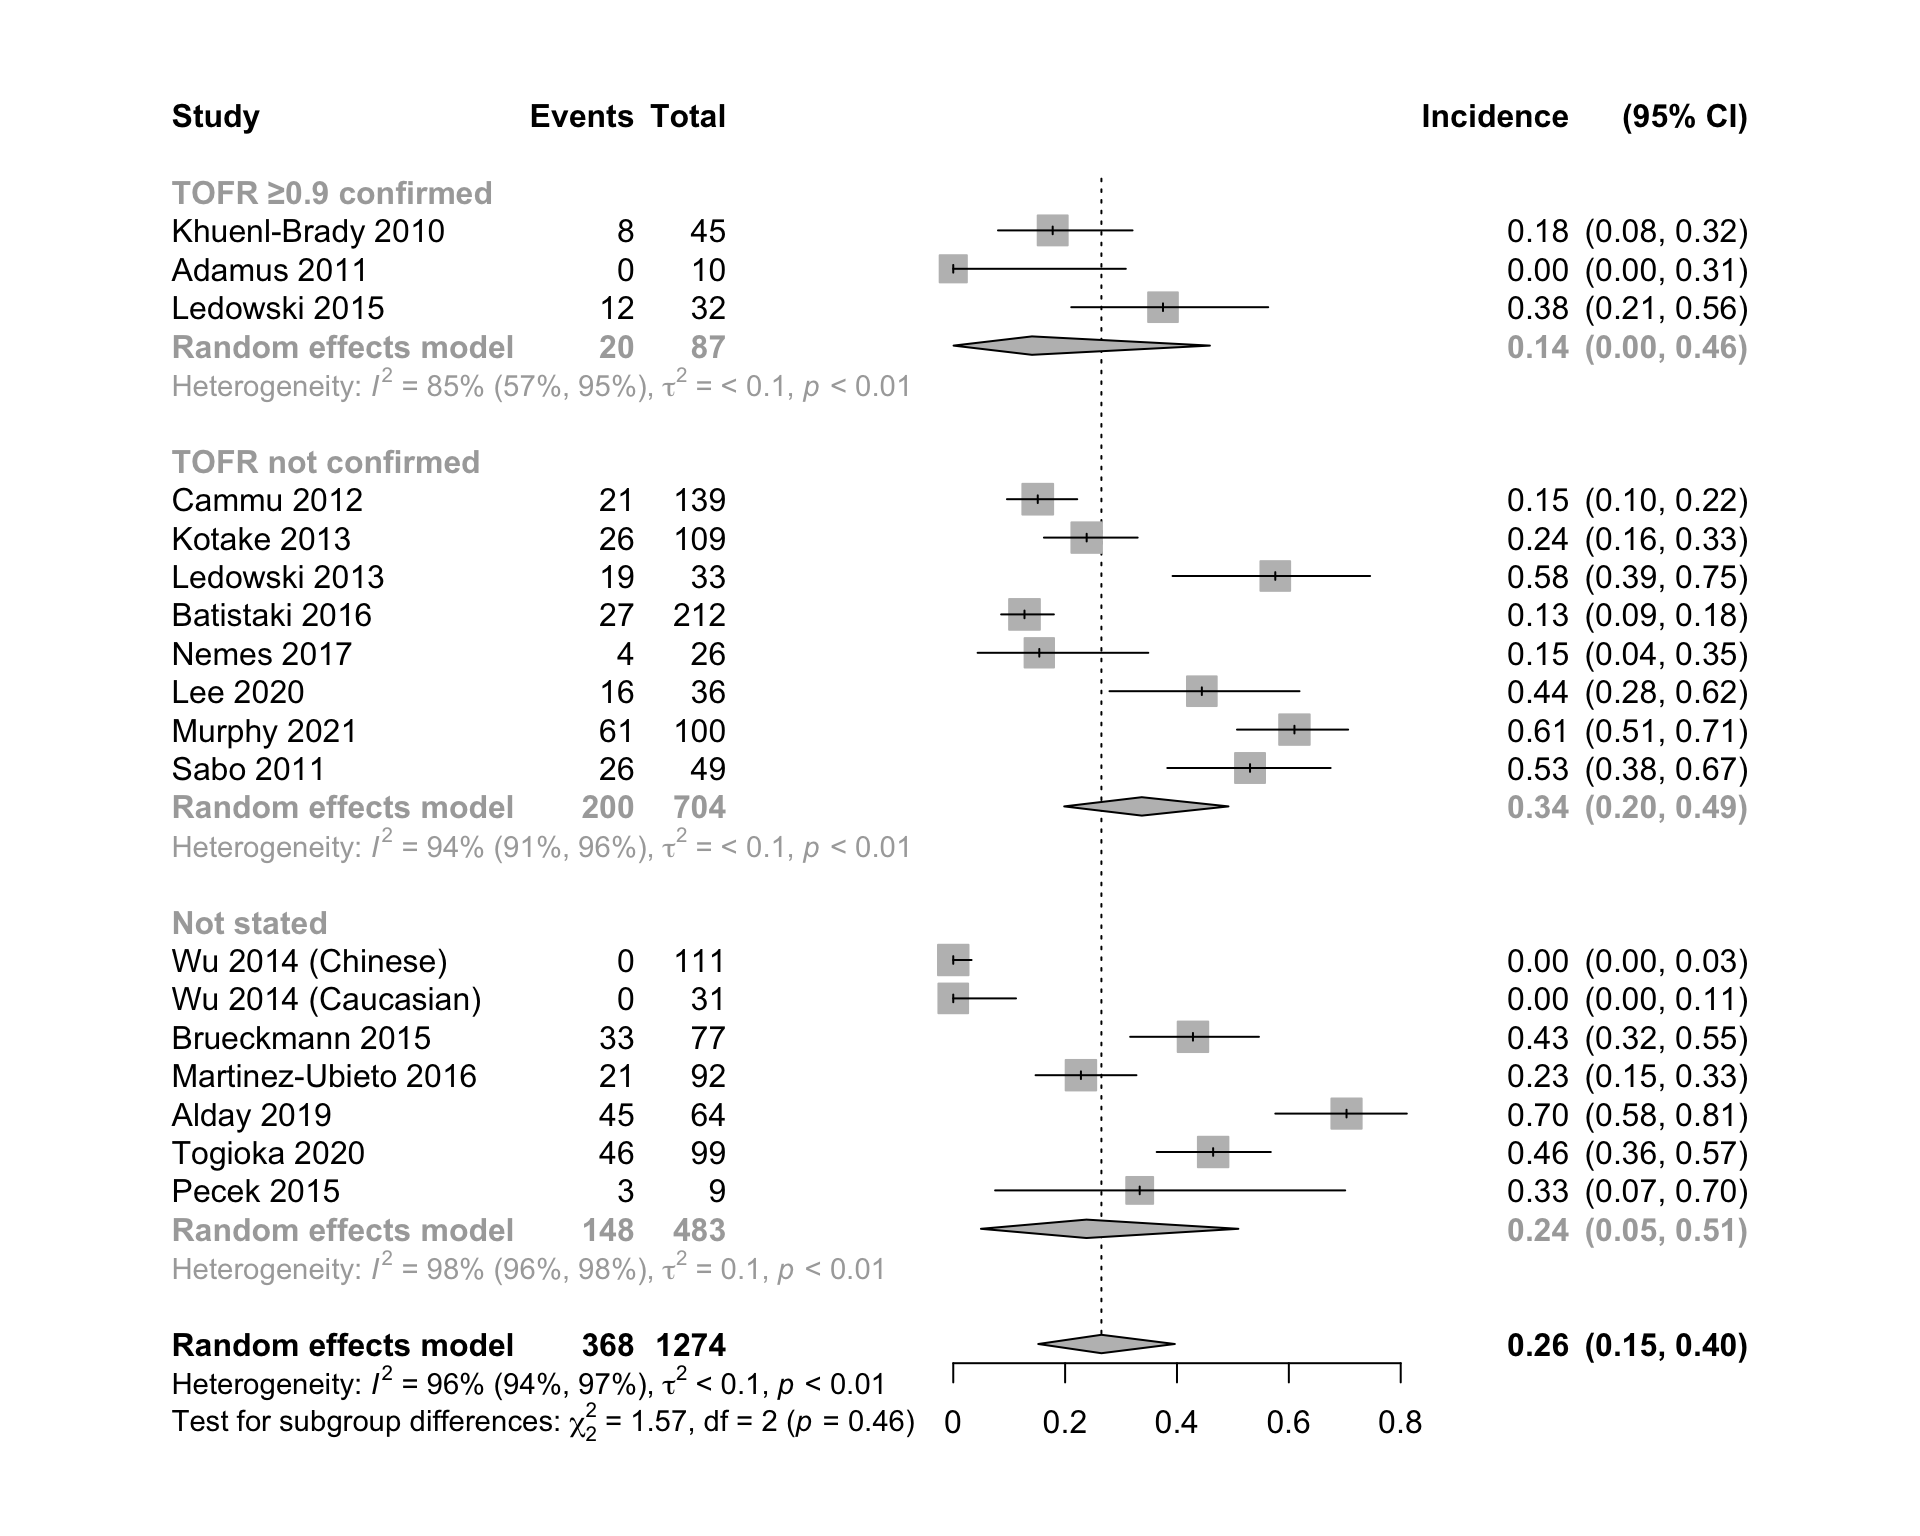
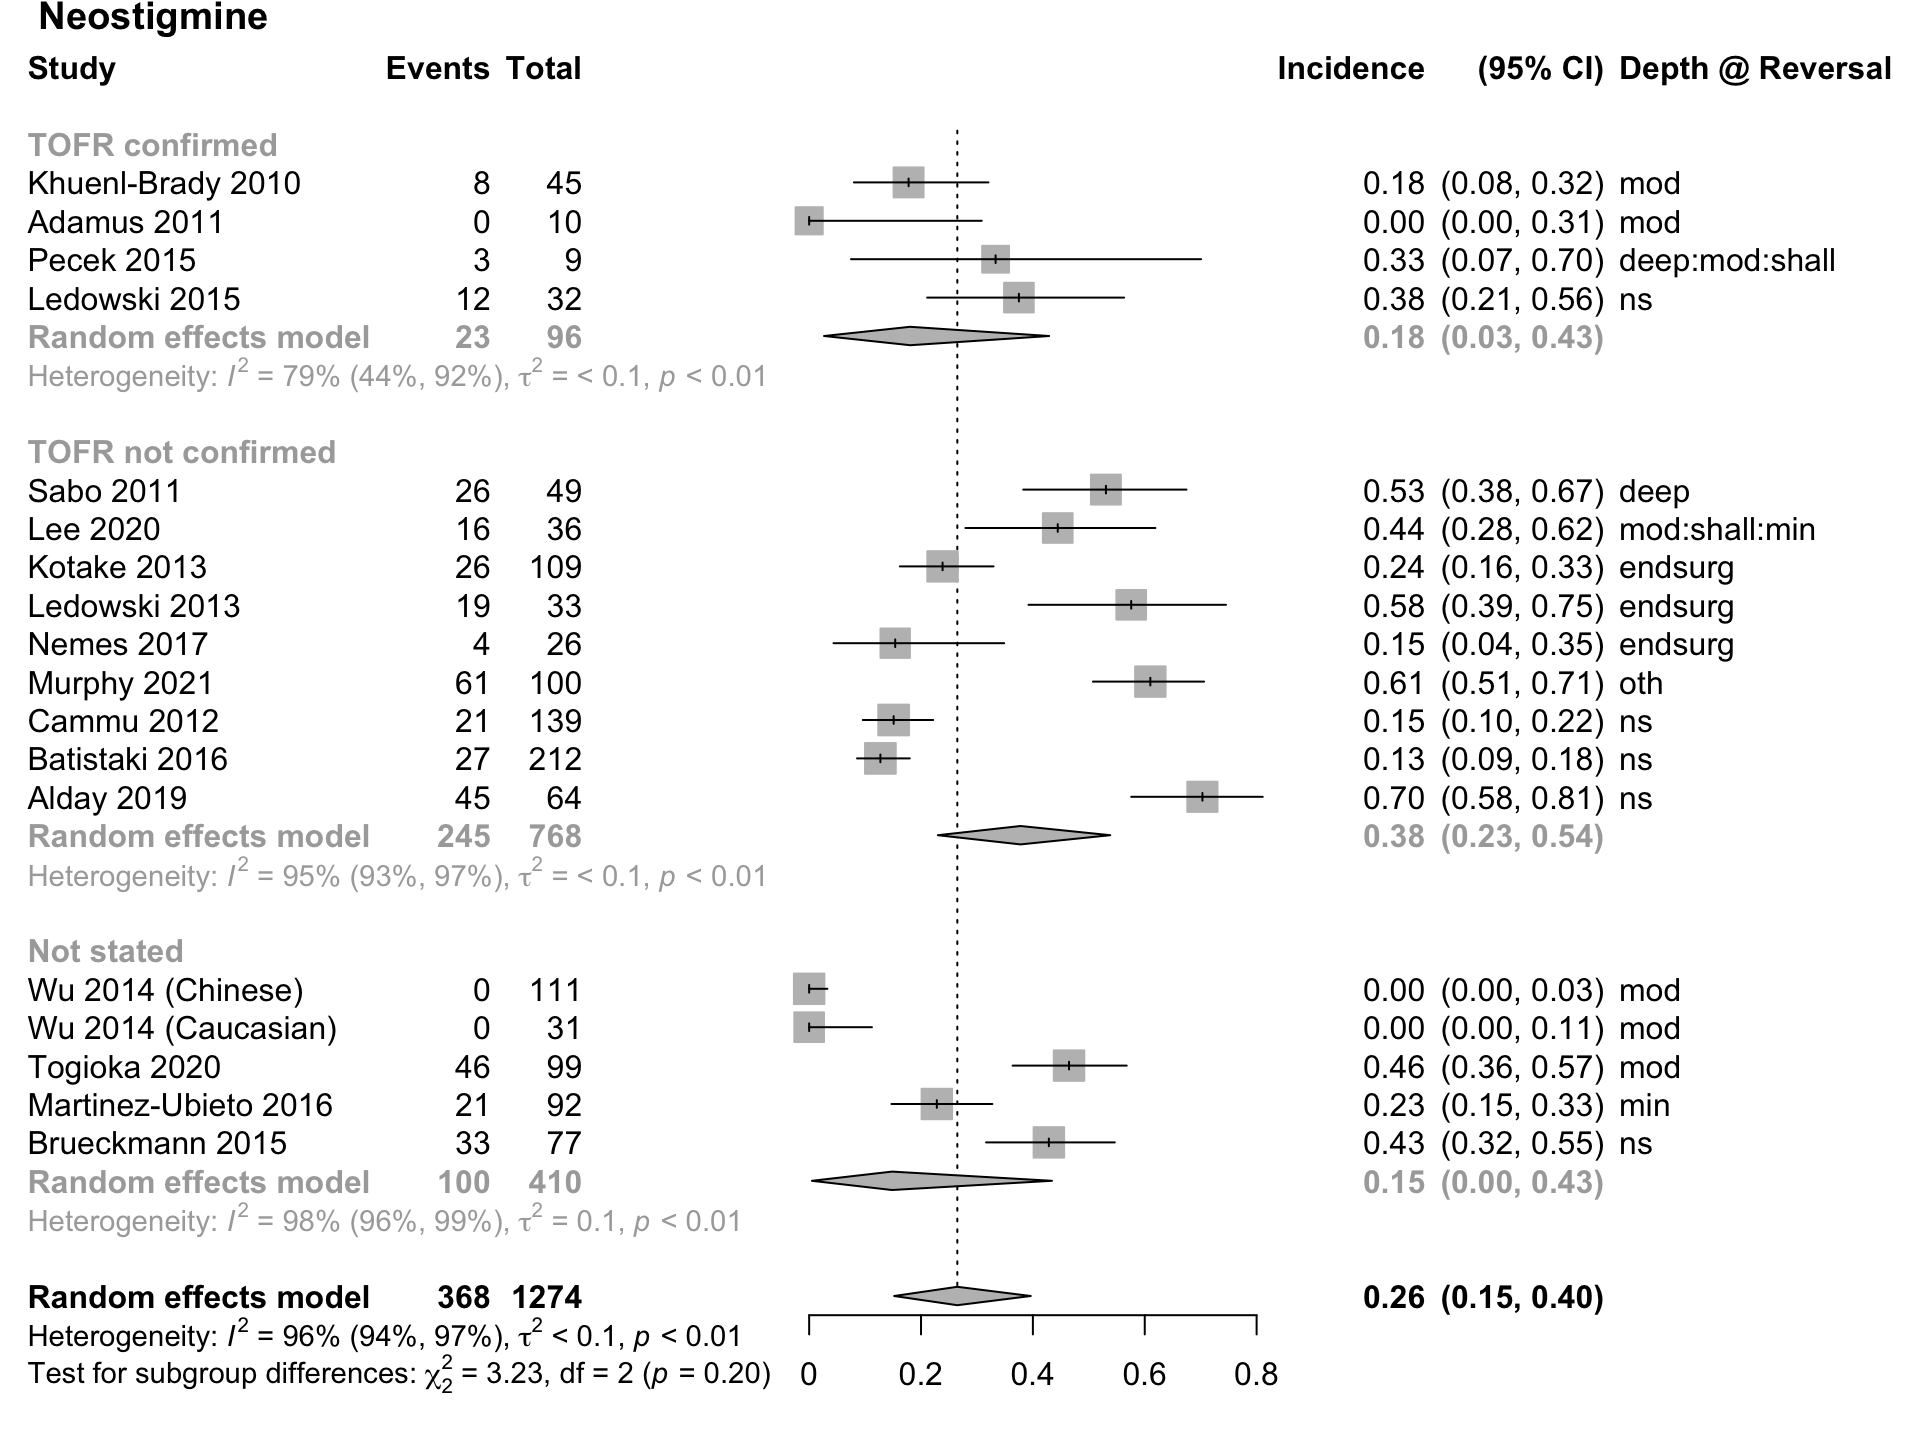
cofirm updates

diff --git a/docs/tofr_confirm.html b/docs/tofr_confirm.html
@@ -398,7 +398,7 @@ div.tocify {
 
 
 <h1 class="title toc-ignore">TOFR Confirmation</h1>
-<h4 class="date">11 March, 2022 (12:05)</h4>
+<h4 class="date">13 March, 2022 (09:34)</h4>
 
 </div>
 
@@ -427,7 +427,7 @@ aria-hidden="true"></span> </a>
 <div class="tab-content">
 <div id="summary" class="tab-pane fade in active">
 <p>
-<strong>Last updated:</strong> 2022-03-11
+<strong>Last updated:</strong> 2022-03-13
 </p>
 <p>
 <strong>Checks:</strong> <span
@@ -561,15 +561,15 @@ project makes it easier to run your code on other machines.</p>
 <div class="panel panel-default">
 <div class="panel-heading">
 <p class="panel-title">
-<a data-toggle="collapse" data-parent="#workflowr-checks" href="#strongRepositoryversionstrongahrefhttpsgithubcommdgrantNMBtree8fc8cbd7d4da8bd80d64bca70f7ff6b9835d742dtargetblank8fc8cbda">
+<a data-toggle="collapse" data-parent="#workflowr-checks" href="#strongRepositoryversionstrongahrefhttpsgithubcommdgrantNMBtreec366808a6561a89cad80dc15508582c5151716ectargetblankc366808a">
 <span class="glyphicon glyphicon-ok text-success"
 aria-hidden="true"></span> <strong>Repository version:</strong>
-<a href="https://github.com/mdgrant/NMB/tree/8fc8cbd7d4da8bd80d64bca70f7ff6b9835d742d" target="_blank">8fc8cbd</a>
+<a href="https://github.com/mdgrant/NMB/tree/c366808a6561a89cad80dc15508582c5151716ec" target="_blank">c366808</a>
 </a>
 </p>
 </div>
 <div
[2 lines of base64/hex data omitted]
 class="panel-collapse collapse">
 <div class="panel-body">
 <p>
@@ -579,7 +579,7 @@ reproducibility.
 </p>
 <p>
 The results in this page were generated with repository version
-<a href="https://github.com/mdgrant/NMB/tree/8fc8cbd7d4da8bd80d64bca70f7ff6b9835d742d" target="_blank">8fc8cbd</a>.
+<a href="https://github.com/mdgrant/NMB/tree/c366808a6561a89cad80dc15508582c5151716ec" target="_blank">c366808</a>.
 See the <em>Past versions</em> tab to see a history of the changes made
 to the R Markdown and HTML files.
 </p>
@@ -614,6 +614,7 @@ Ignored files:
 Untracked files:
     Untracked:  .temp.lb
     Untracked:  analysis/.gitignore
+    Untracked:  analysis/tofr_confirm (old).Rmd
     Untracked:  code/.gitignore
     Untracked:  code/misc_calcs.R
     Untracked:  code/rob_111921.R
@@ -667,6 +668,40 @@ Message
 </tr>
 </thead>
 <tbody>
+<tr>
+<td>
+Rmd
+</td>
+<td>
+<a href="https://github.com/mdgrant/NMB/blob/c366808a6561a89cad80dc15508582c5151716ec/analysis/tofr_confirm.Rmd" target="_blank">c366808</a>
+</td>
+<td>
+mdgrant
+</td>
+<td>
+2022-03-11
+</td>
+<td>
+update caption
+</td>
+</tr>
+<tr>
+<td>
+html
+</td>
+<td>
+<a href="https://rawcdn.githack.com/mdgrant/NMB/c366808a6561a89cad80dc15508582c5151716ec/docs/tofr_confirm.html" target="_blank">c366808</a>
+</td>
+<td>
+mdgrant
+</td>
+<td>
+2022-03-11
+</td>
+<td>
+update caption
+</td>
+</tr>
 <tr>
 <td>
 Rmd
@@ -788,8 +823,9 @@ $(document).ready(function(){
 <p><a id="kq4Fig1"></a></p>
 <p><br/></p>
 <p><font size = 4> Figure 1. Incidence of residual neuromuscular block
-(TOFR &lt;0.9) in RCTs among patients given sugammadex according to
-whether TOFR was reported as confirmed prior to extubation. </font></p>
+(TOFR &lt;0.9) in randomized and nonrandomized studies among patients
+given sugammadex according to whether TOFR was reported as confirmed
+(all ≥ 0.9) prior to extubation. </font></p>
 <p><img src="figure/tofr_confirm.Rmd/rnmbMetaTofrSug-1.png" width="960" style="display: block; margin: auto auto auto 0;" /></p>
 <p>
 <button type="button" class="btn btn-default btn-xs btn-workflowr btn-workflowr-fig" data-toggle="collapse" data-target="#fig-rnmbMetaTofrSug-1">
@@ -839,9 +875,14 @@ mdgrant
 </table>
 </div>
 </div>
+<p>mod: moderate; min: minimal; oth: other; ns: not stated.<br/>
+Excluding Alday 2019 (an outlier) yielded a pooled result of 0.04 (95%
+CI: 0.1, 0.07)</p>
+<p><br/></p>
 <p><font size = 4> Figure 2. Incidence of residual neuromuscular block
-(TOFR &lt;0.9) in RCTs among patients given neostigmine according to
-whether TOFR was reported as confirmed prior to extubation. </font></p>
+(TOFR &lt;0.9) in randomized and nonrandomized studies among patients
+given neostigmine according to whether TOFR was reported as confirmed
+(all ≥ 0.9) prior to extubation. </font></p>
 <p><img src="figure/tofr_confirm.Rmd/rnmbMetaTofrNeo-1.png" width="960" style="display: block; margin: auto auto auto 0;" /></p>
 <p>
 <button type="button" class="btn btn-default btn-xs btn-workflowr btn-workflowr-fig" data-toggle="collapse" data-target="#fig-rnmbMetaTofrNeo-1">
@@ -891,6 +932,7 @@ mdgrant
 </table>
 </div>
 </div>
+<p>mod: moderate; min: minimal; oth: other; ns: not stated.</p>
 <br>
 <p>
 <button type="button" class="btn btn-default btn-workflowr btn-workflowr-sessioninfo" data-toggle="collapse" data-target="#workflowr-sessioninfo" style="display: block;">
